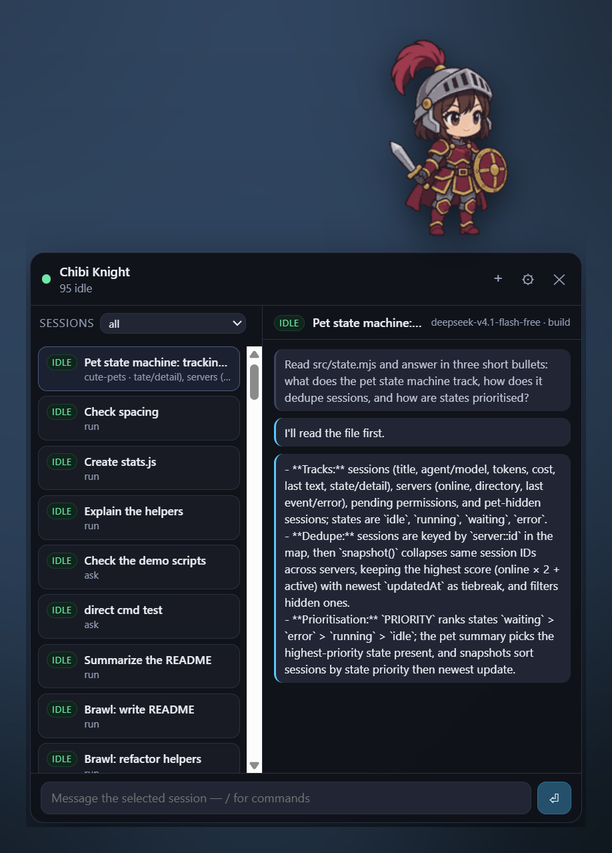
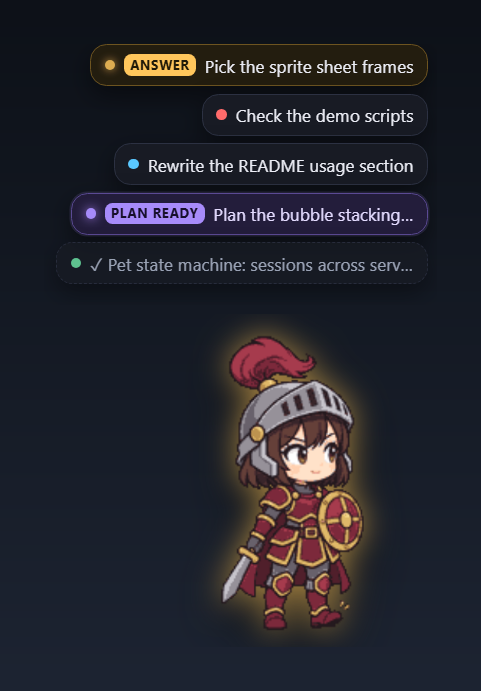
docs: pet and bubbles, and the panel opening above the pet
Captured from the real Electron windows against a scripted fake OpenCode
server: five sessions in waiting, running, plan-ready, error and idle.

diff --git a/README.md b/README.md
@@ -3,7 +3,15 @@
 Desktop pets for [OpenCode](https://opencode.ai) that show **real sessions** — titles,
 states, approvals and chat — instead of a decorative bubble.
 
-![cute-pets](docs/screenshot.png)
+![cute-pets: the pet with its bubbles](docs/screenshot.png)
+
+One bubble per session: a question that needs an answer, a turn in flight, a finished
+plan, an error, a done check. Nothing else on your screen.
+
+![cute-pets: the panel opens above the pet](docs/screenshot-panel.png)
+
+Click the pet and the panel opens directly above it — real sessions, their states and the
+chat — with the bubble stack out of the way.
 
 Codex Pets can do this because it *is* a client of its agent. So is cute-pets: it is a
 client of OpenCode's own HTTP+SSE server, not an MCP sink. It knows your session titles,
